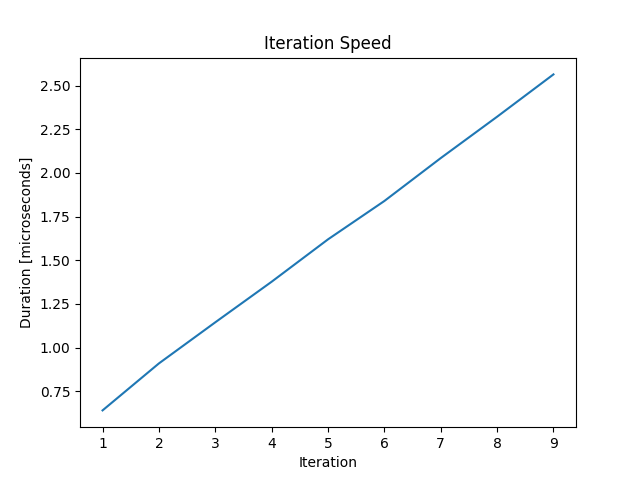
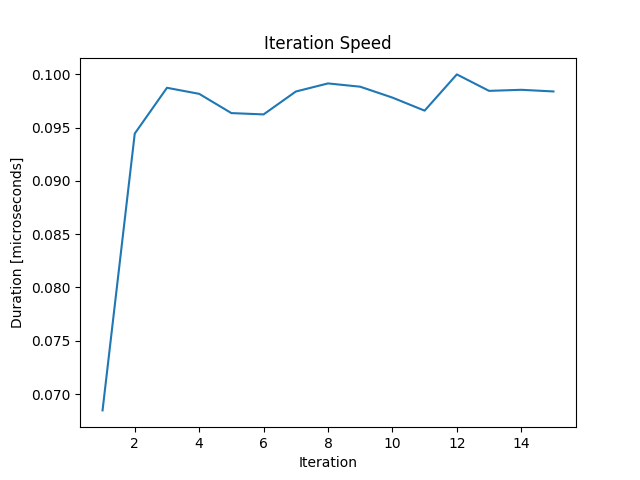
adds paillier 2

diff --git a/pallier2.py b/pallier2.py
@@ -41,7 +41,24 @@ while (k<maxIter) and (concensus<3):
     for i in range(n):
         a.append(rho*(avg[k]-u[k][i])/(2*q[i] + rho)) #state update of x
     x.append(a) # append 3xk to 3x(k+1) (encrypted)
-    
+
+    # print_x.append(save_x)
+    avg[k+1] = sum(x[k+1])/len(x[k+1])
+
+    b = []
+    # update to parties
+    for i in range(n):        
+        b.append(u[k][i] + x[k+1][i]-avg[k+1])
+    u.append(b) 
+    timer.append(time()-timerInit)
+
+    concensus = 0
+    for i in range(n):
+        if abs(private_key.decrypt(x[-1][i]-avg[k+1]))<.001:
+            concensus+=1
+    if concensus==n:
+        print("concensus was acchieved at iteration: ", k)
+
     xDec = [[private_key.decrypt(i) for i in j] for j in x]
     agent_1 = []
     agent_2 = []
@@ -50,36 +67,25 @@ while (k<maxIter) and (concensus<3):
         agent_1.append(xDec[i][0])
         agent_2.append(xDec[i][1])
         agent_3.append(xDec[i][2])
+    xDec = []
+    avgDec = []
 
     if (k>0):
         ax.clear()
     t.append(k+1)
     ax = plt.plot(t,agent_1,t,agent_2,t,agent_3)
-
-    # print_x.append(save_x)
-    avg[k+1] = sum(x[k+1])/len(x[k+1])
-    avgDec = private_key.decrypt(avg[k+1])
-
-    concensus = 0
-    for i in range(n):
-        if (abs(xDec[-1][i])-avgDec)<.01:
-            concensus+=1
-    print("concensus :",concensus)
-    if concensus==n:
-        print("concensus was acchieved with initial states ", xDec[0])
-    xDec = []
-    avgDec = []
-
-    b = []
-    # update to parties
-    for i in range(n):        
-        b.append(u[k][i] + x[k+1][i]-avg[k+1])
-    u.append(b) 
-    timer.append(time()-timerInit)
+    # plt.show() uncomment this line to show plot at every iterate
     k+=1
+
+
+
+
+
+
 
 avg = [private_key.decrypt(y) for y in avg[0:k]]
 plt.plot(t[0:-1],avg) 
+plt.legend(["agent1","agent2","agent3","average"])
 plt.savefig('Paillier.png')
 
 plt.figure()
